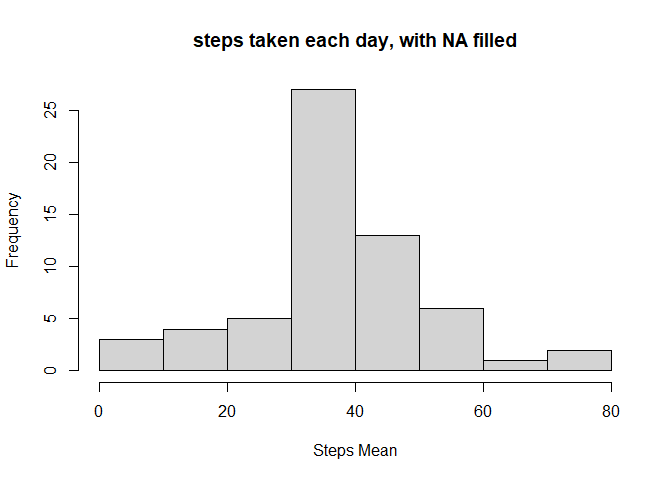
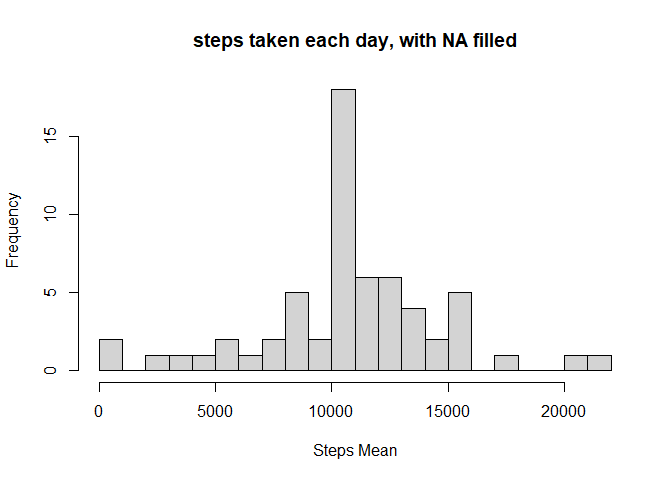
fix errors

diff --git a/PA1_template.html b/PA1_template.html
@@ -394,18 +394,19 @@ data</code></pre>
 <div id="what-is-mean-total-number-of-steps-taken-per-day" class="section level2">
 <h2>What is mean total number of steps taken per day?</h2>
 <pre class="r"><code>#1. Calculate the total number of steps taken per day
-
-data2&lt;-tapply(data$steps, data$date,mean,na.rm=T)
+data2&lt;-aggregate(steps ~ date, data, sum)
 
 #2. If you do not understand the difference between a histogram and a barplot, research the difference between them. Make a histogram of the total number of steps taken each day
 
-hist(data2,main=&quot;steps taken each day&quot;)  </code></pre>
[1 lines of base64/hex data omitted]
+hist(data2$steps, breaks = 25,
+     main=&quot;steps taken each day&quot;,
+     xlab = &quot;Steps Mean&quot;) </code></pre>
[1 lines of base64/hex data omitted]
 <pre class="r"><code>#3. Calculate and report the mean and median of the total number of steps taken per day
 
-summary(data$steps,)[c(&quot;Median&quot;,&quot;Mean&quot;)]</code></pre>
-<pre><code>##  Median    Mean 
-##  0.0000 37.3826</code></pre>
+summary(data2$steps,)[c(&quot;Median&quot;,&quot;Mean&quot;)]</code></pre>
+<pre><code>##   Median     Mean 
+## 10765.00 10766.19</code></pre>
 </div>
 <div id="what-is-the-average-daily-activity-pattern" class="section level2">
 <h2>What is the average daily activity pattern?</h2>
@@ -438,14 +439,14 @@ data4$steps[is.na(data4$steps)]&lt;-data4$steps.mean[is.na(data4$steps)]
 data4&lt;- data4[,-4] #deletel the steps.mean column
 
 #4. Make a histogram of the total number of steps taken each day and Calculate and report the mean and median total number of steps taken per day. Do these values differ from the estimates from the first part of the assignment? What is the impact of imputing missing data on the estimates of the total daily number of steps?
-data4.1&lt;-tapply(data4$steps, data4$date,mean,na.rm=T)
-hist(data4.1,
+data4.1&lt;-aggregate(steps ~ date, data4, sum)
+hist(data4.1$steps,breaks = 25,
      main=&quot;steps taken each day, with NA filled&quot;,
      xlab = &quot;Steps Mean&quot;)</code></pre>
[1 lines of base64/hex data omitted]
-<pre class="r"><code>summary(data4$steps,)[c(&quot;Median&quot;,&quot;Mean&quot;)]</code></pre>
[1 lines of base64/hex data omitted]
+<pre class="r"><code>summary(data4.1$steps,)[c(&quot;Median&quot;,&quot;Mean&quot;)]</code></pre>
 <pre><code>##   Median     Mean 
-##  0.00000 37.38069</code></pre>
+## 10762.00 10765.64</code></pre>
 </div>
 <div id="are-there-differences-in-activity-patterns-between-weekdays-and-weekends" class="section level2">
 <h2>Are there differences in activity patterns between weekdays and weekends?</h2>

diff --git a/PA1_template.md b/PA1_template.md
@@ -44,12 +44,13 @@ data
 
 ```r
 #1. Calculate the total number of steps taken per day
-
-data2<-tapply(data$steps, data$date,mean,na.rm=T)
+data2<-aggregate(steps ~ date, data, sum)
 
 #2. If you do not understand the difference between a histogram and a barplot, research the difference between them. Make a histogram of the total number of steps taken each day
 
-hist(data2,main="steps taken each day")  
+hist(data2$steps, breaks = 25,
+     main="steps taken each day",
+     xlab = "Steps Mean") 
 ```
 
 ![](PA1_template_files/figure-html/histogram-1.png)<!-- -->
@@ -57,12 +58,12 @@ hist(data2,main="steps taken each day")
 ```r
 #3. Calculate and report the mean and median of the total number of steps taken per day
 
-summary(data$steps,)[c("Median","Mean")]
+summary(data2$steps,)[c("Median","Mean")]
 ```
 
 ```
-##  Median    Mean 
-##  0.0000 37.3826
+##   Median     Mean 
+## 10765.00 10766.19
 ```
 
 ## What is the average daily activity pattern?
@@ -115,8 +116,8 @@ data4$steps[is.na(data4$steps)]<-data4$steps.mean[is.na(data4$steps)]
 data4<- data4[,-4] #deletel the steps.mean column
 
 #4. Make a histogram of the total number of steps taken each day and Calculate and report the mean and median total number of steps taken per day. Do these values differ from the estimates from the first part of the assignment? What is the impact of imputing missing data on the estimates of the total daily number of steps?
-data4.1<-tapply(data4$steps, data4$date,mean,na.rm=T)
-hist(data4.1,
+data4.1<-aggregate(steps ~ date, data4, sum)
+hist(data4.1$steps,breaks = 25,
      main="steps taken each day, with NA filled",
      xlab = "Steps Mean")
 ```
@@ -124,12 +125,12 @@ hist(data4.1,
 ![](PA1_template_files/figure-html/unnamed-chunk-2-1.png)<!-- -->
 
 ```r
-summary(data4$steps,)[c("Median","Mean")]
+summary(data4.1$steps,)[c("Median","Mean")]
 ```
 
 ```
 ##   Median     Mean 
-##  0.00000 37.38069
+## 10762.00 10765.64
 ```
 
 ## Are there differences in activity patterns between weekdays and weekends?
